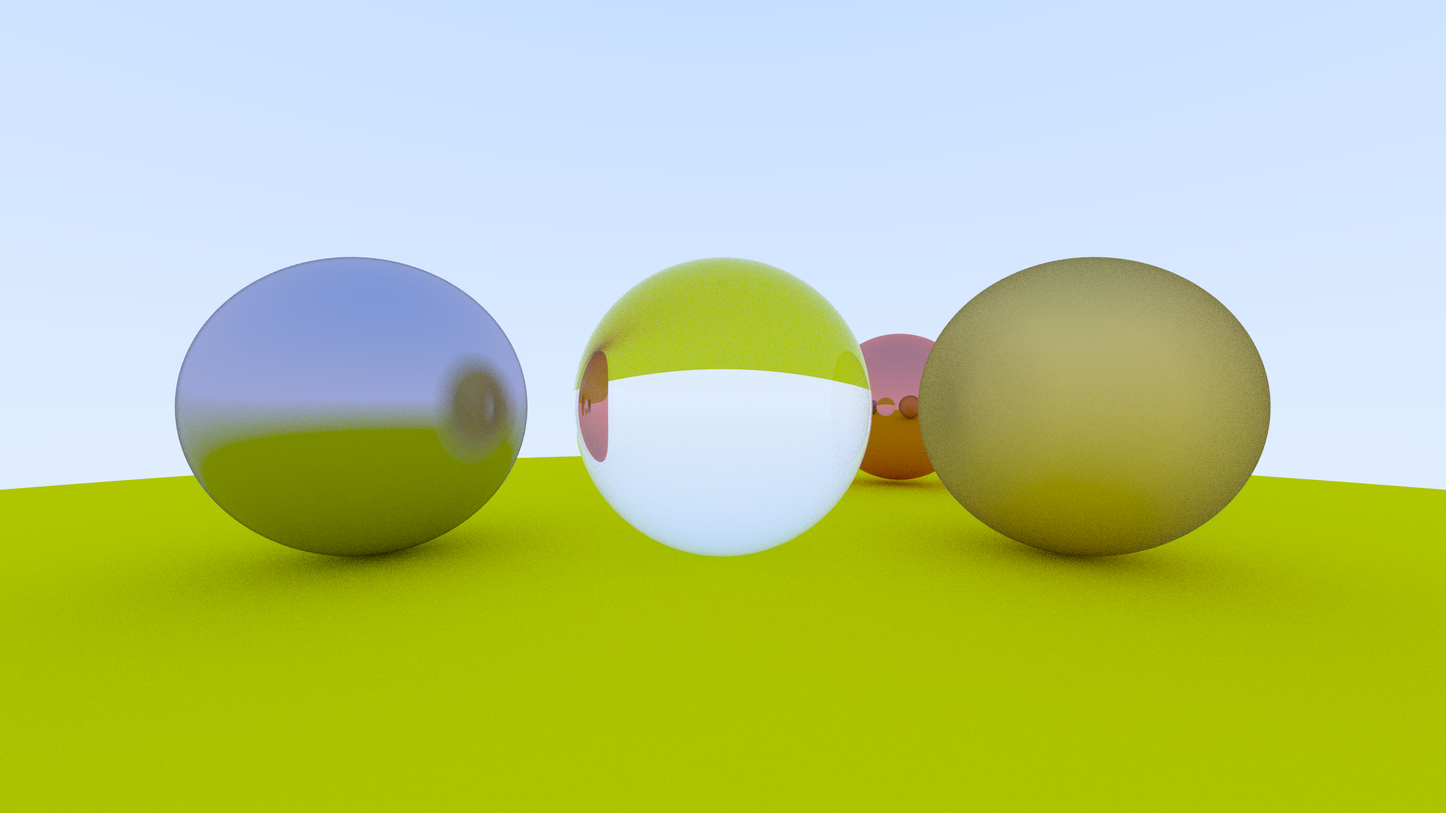
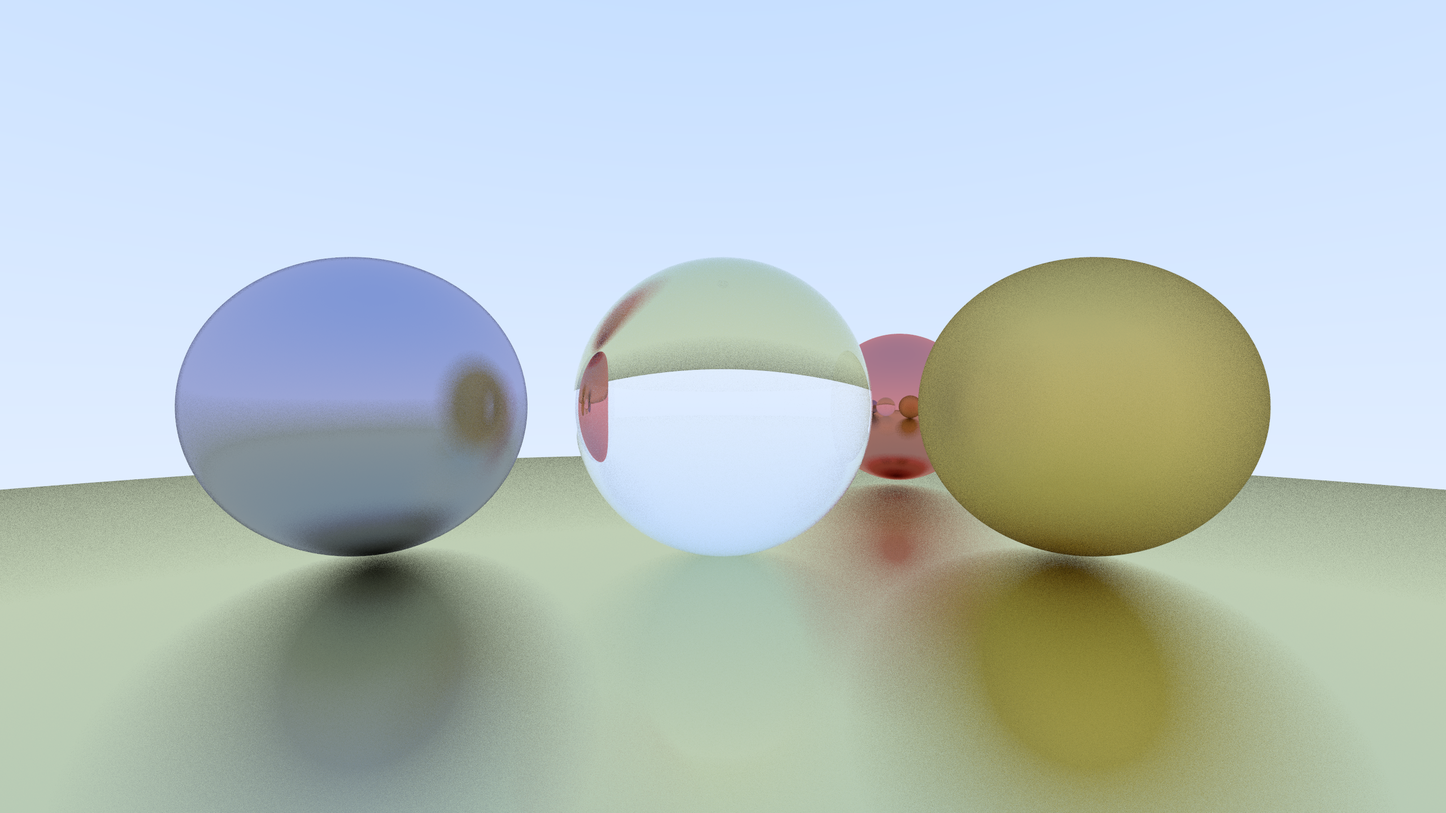
restored ground sphere to being metalic

diff --git a/src/main.rs b/src/main.rs
@@ -21,7 +21,7 @@ fn main() {
     let camera = Camera::from_image(&image, 70.0);
     let mut world: Vec<Box<dyn Hittable + Send + Sync>> = Vec::new();
 
-    let ground = Material::new_lambertian(Color::new(0.8, 0.8, 0.0));
+    let ground = Material::new_metal(Color::new(0.8, 0.8, 0.5), 0.2);
     let center_sphere = Material::new_dielectric(Color::new(1.0, 0.6, 0.6), 1.5);
     let material_left = Material::new_metal(Color::new(0.5, 0.5, 0.7), 0.2);
     let material_right = Material::new_metal(Color::new(0.8, 0.6, 0.2), 0.8);
